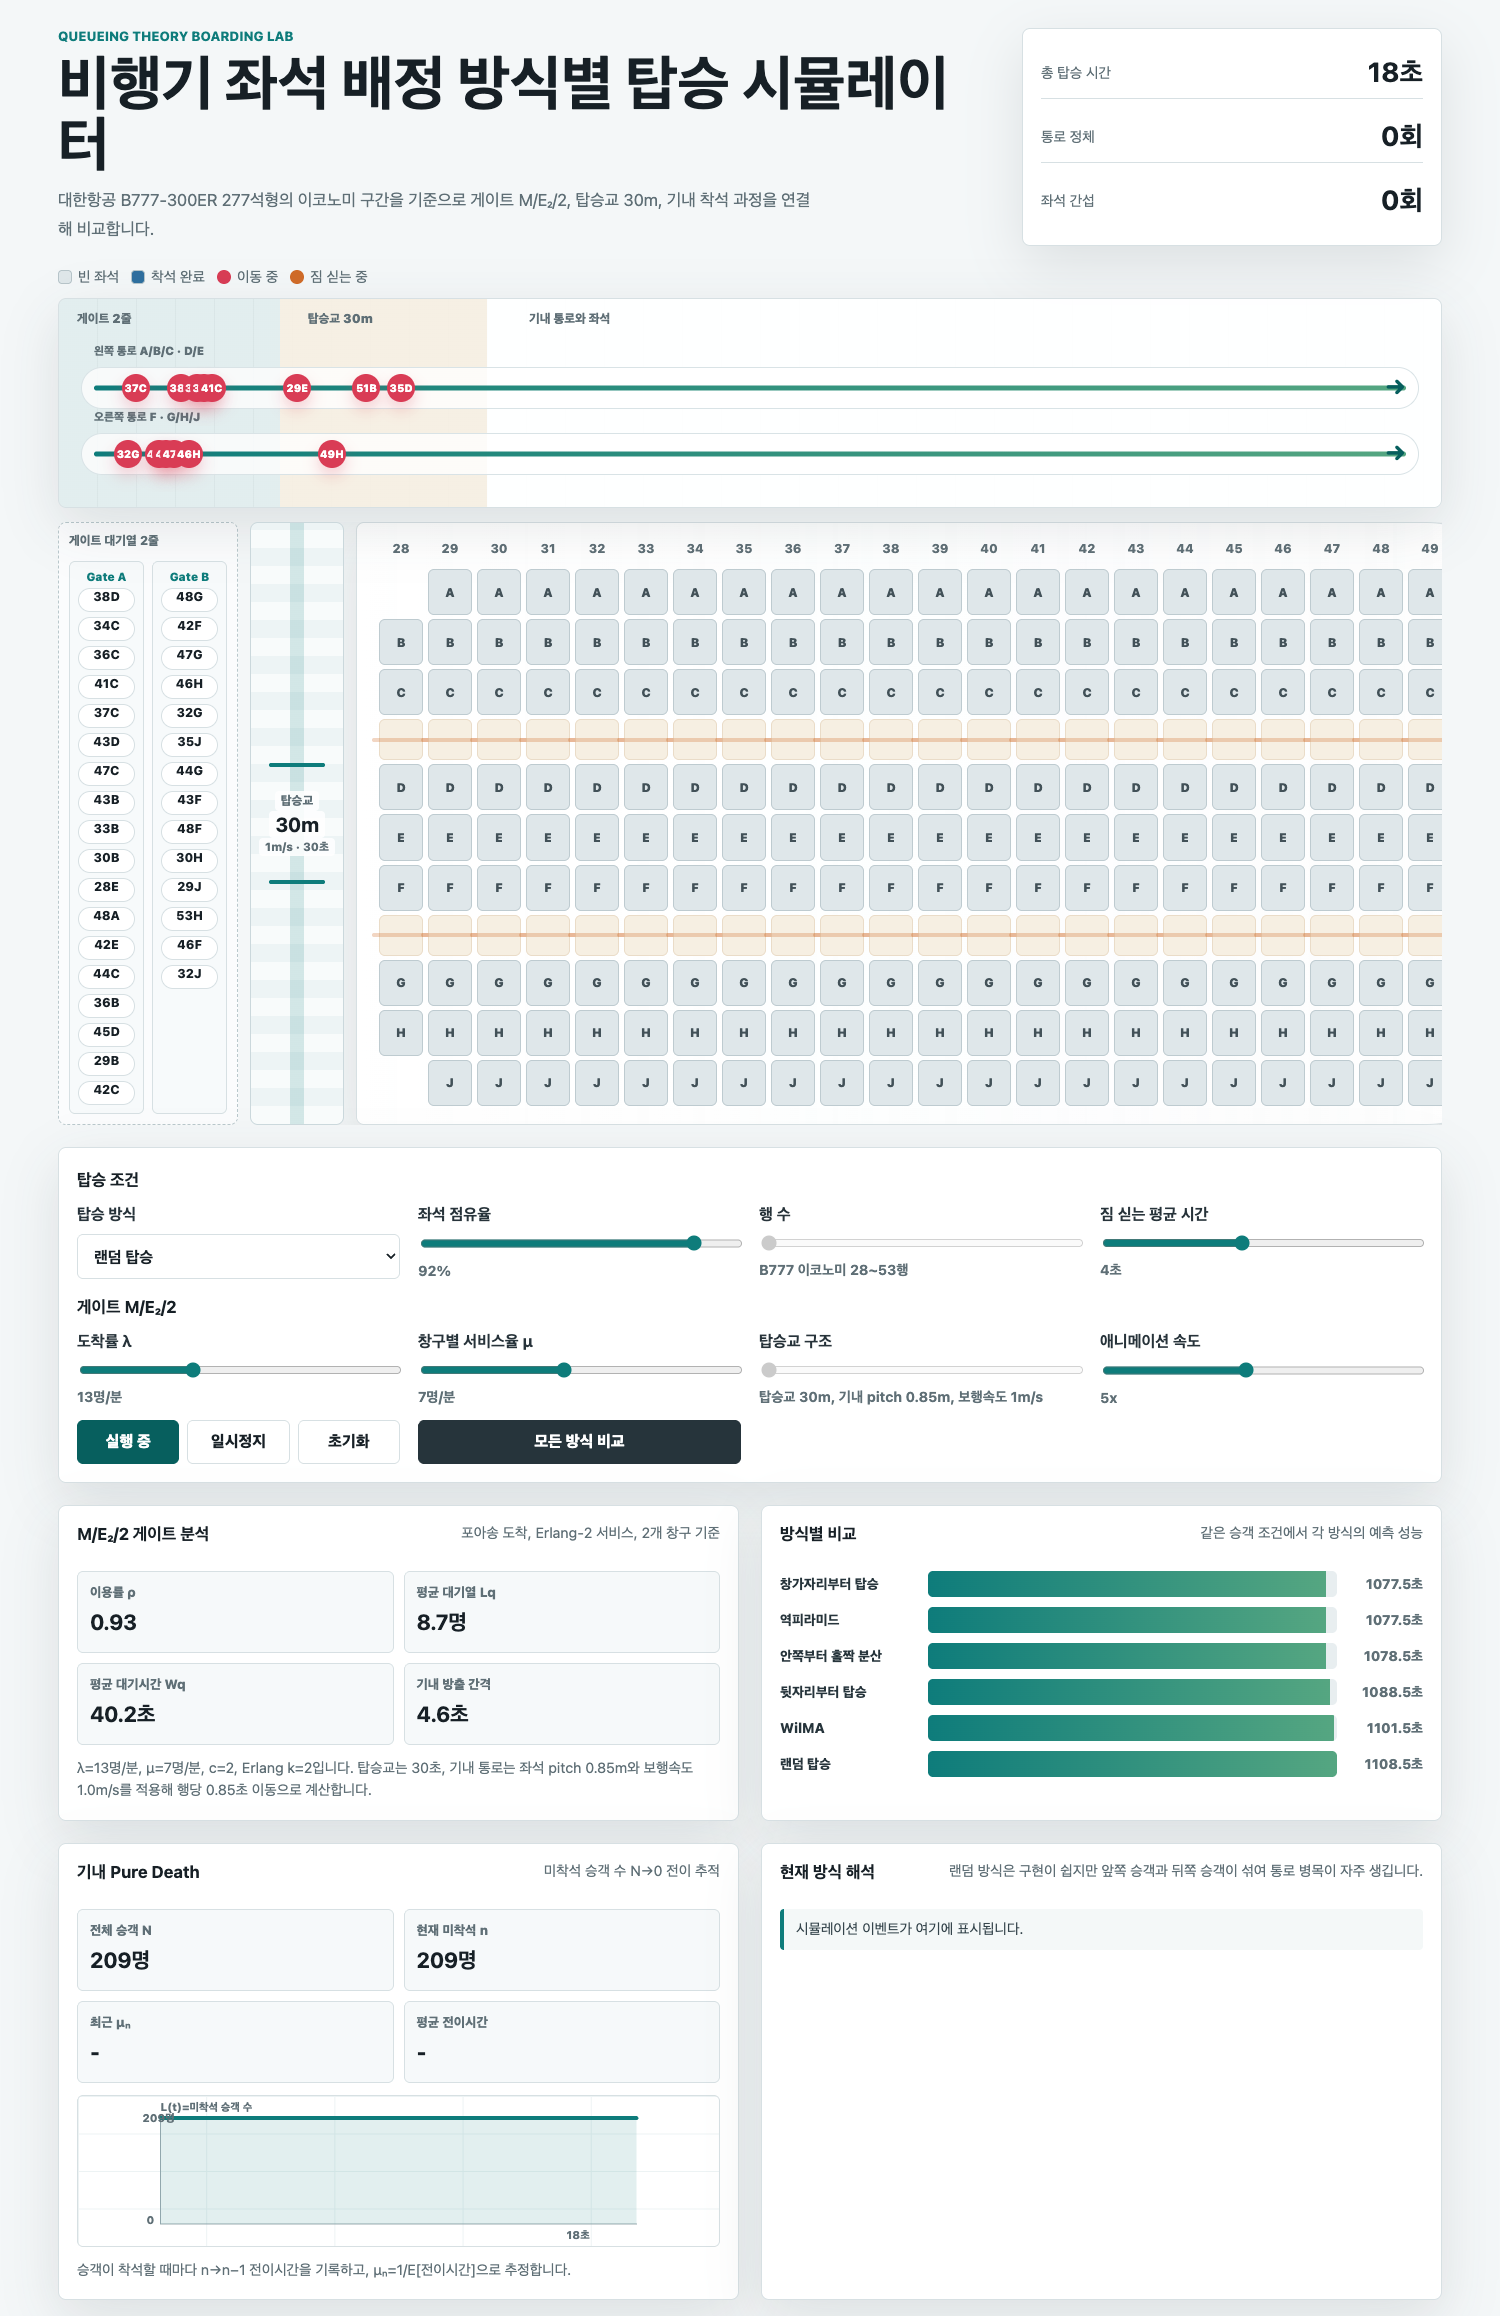
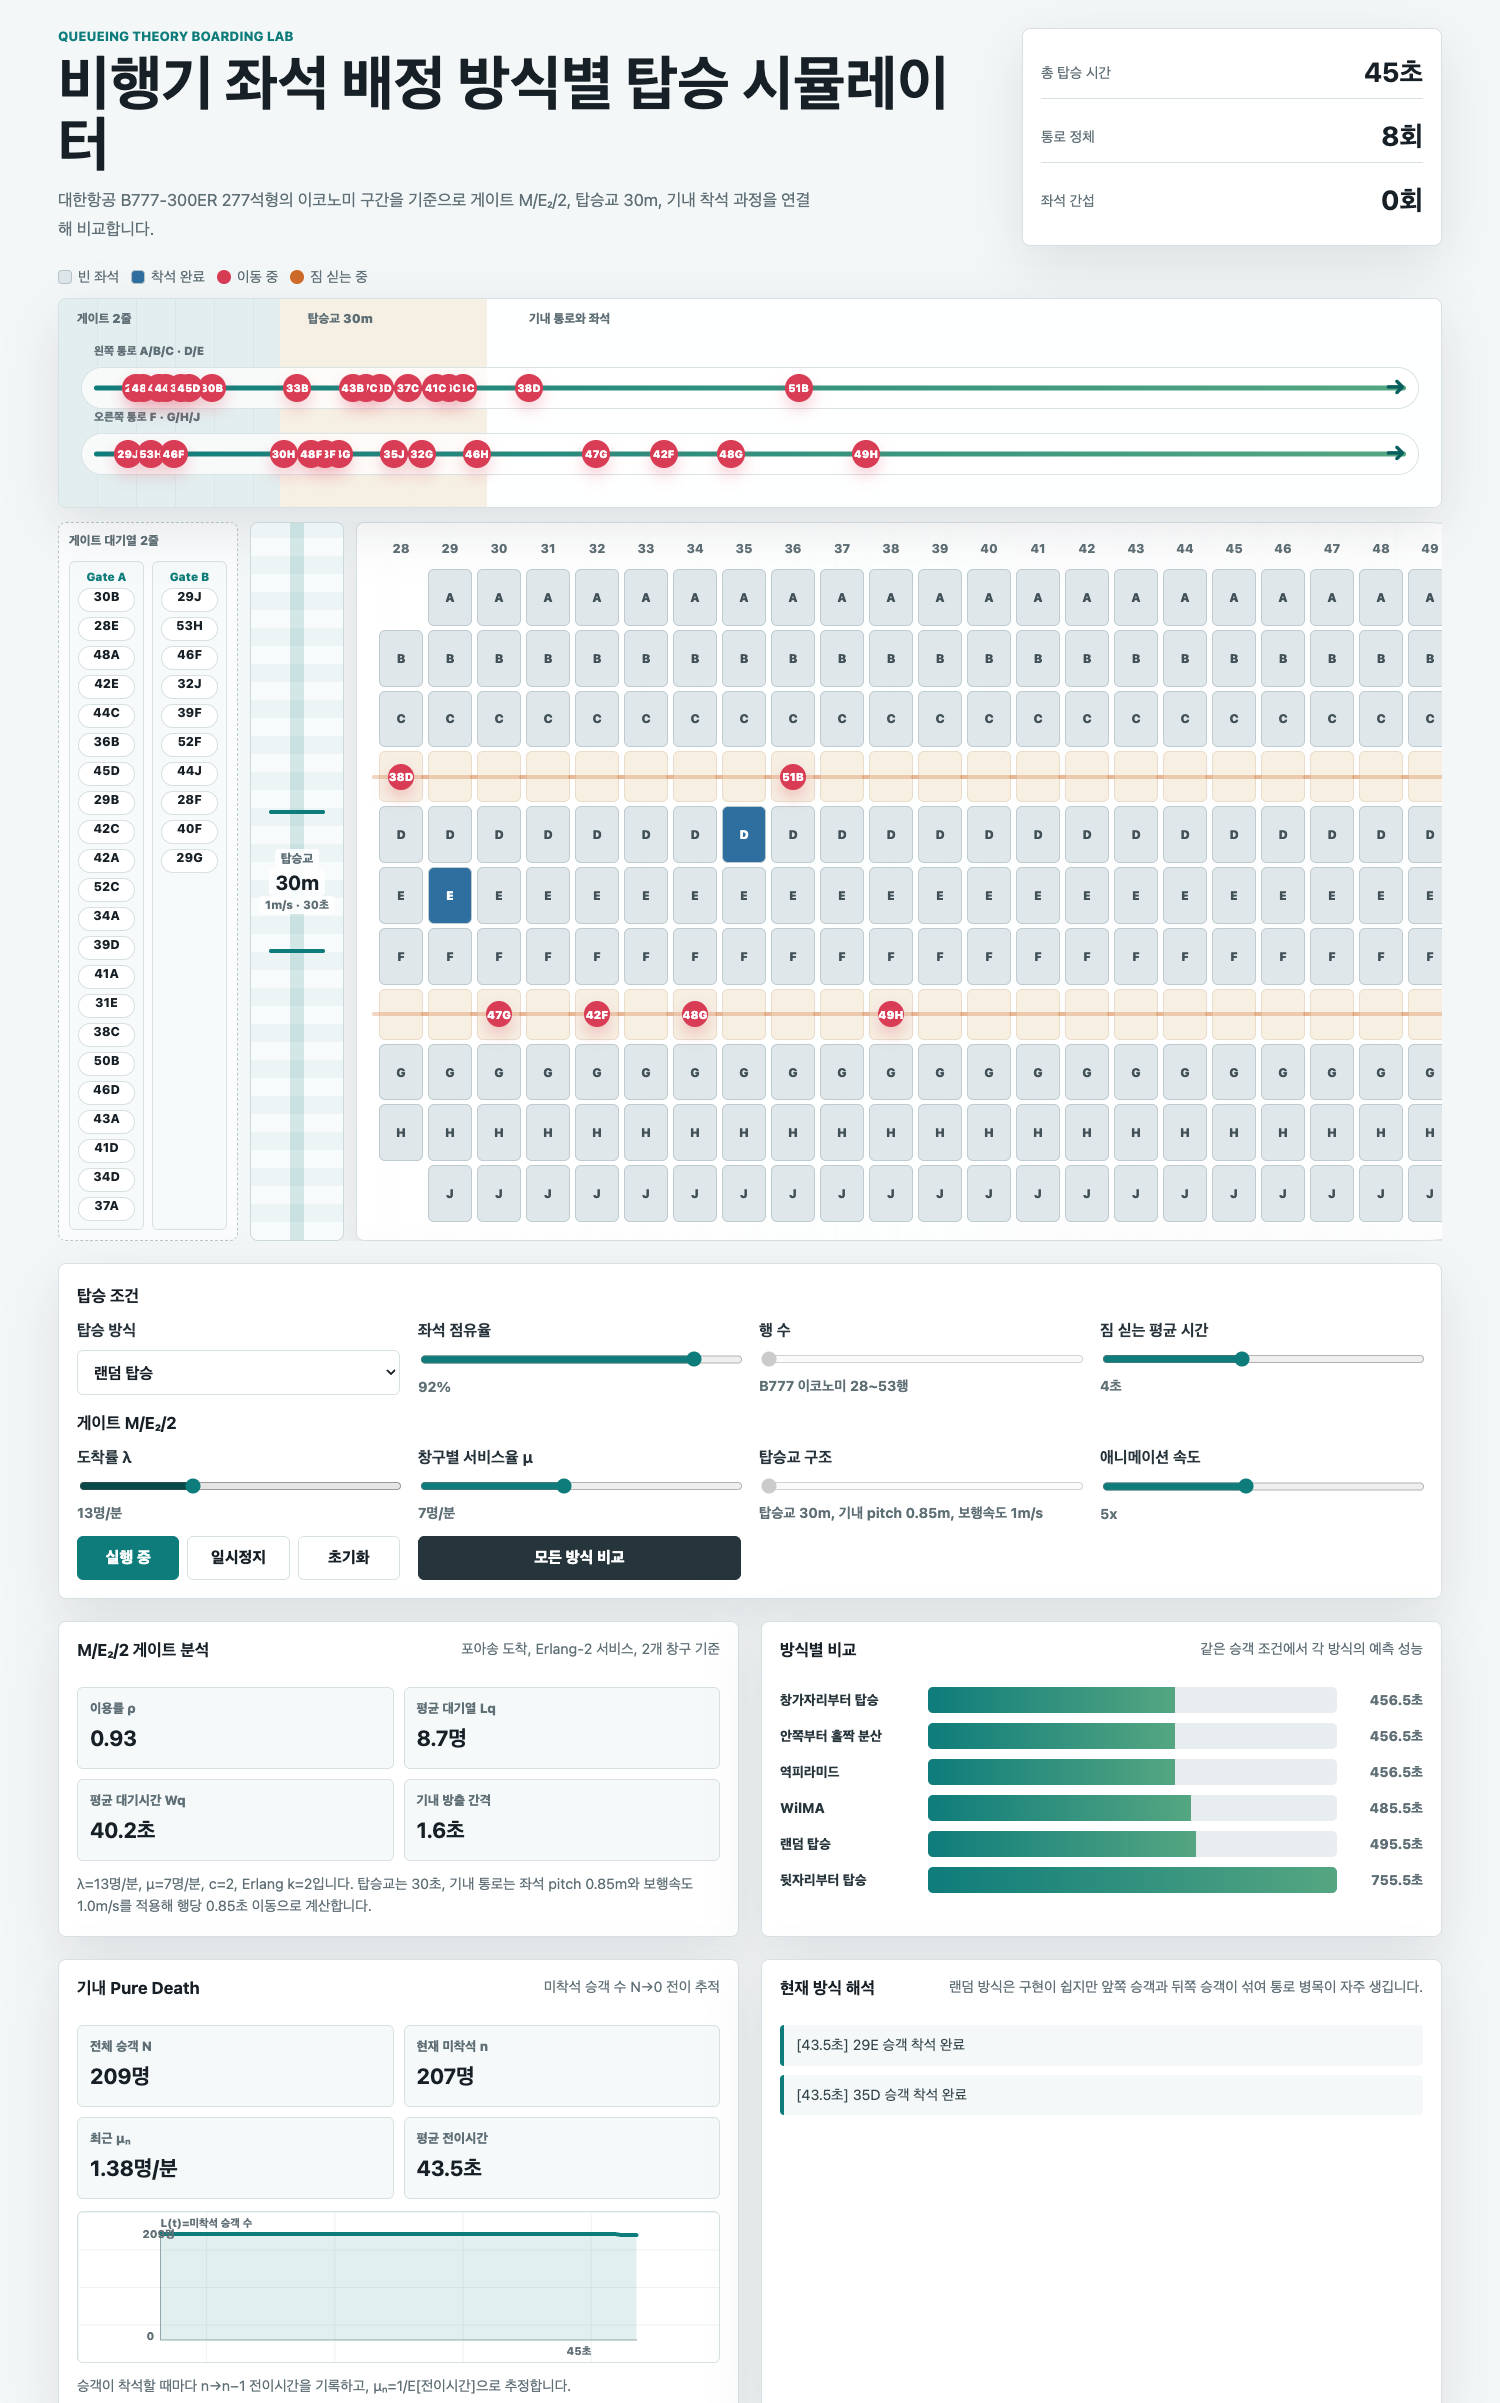
Show realistic cabin entry congestion

diff --git a/app.js b/app.js
@@ -5,6 +5,7 @@ const walkingSpeedMps = 1.0;
 const economyPitchMeters = 0.85;
 const cabinRowTravelSeconds = economyPitchMeters / walkingSpeedMps;
 const simStepSeconds = 0.5;
+const boardingReleaseScale = 0.35;
 const erlangShape = 2;
 const gateServersFixed = 2;
 const seatLetters = ["A", "B", "C", "D", "E", "F", "G", "H", "J"];
@@ -159,7 +160,7 @@ function factorial(value) {
 function mmcMetrics(lambda = state.arrivalRate, mu = state.serviceRate, servers = gateServersFixed) {
   const rho = lambda / (servers * mu);
   const capacityRate = Math.min(lambda, servers * mu);
-  const releaseInterval = 60 / Math.max(capacityRate, 0.1);
+  const releaseInterval = (60 / Math.max(capacityRate, 0.1)) * boardingReleaseScale;
 
   if (rho >= 1) {
     return {
@@ -390,6 +391,7 @@ function stepSimulation(sim) {
       entryAisle[0] = passenger;
       sim.bridgePassengers.splice(i, 1);
     } else {
+      passenger.status = "bridge_wait";
       sim.blockedTicks += 1;
     }
   }
@@ -463,9 +465,9 @@ function flowPosition(passenger) {
   if (passenger.status === "queue") {
     return 5 + (passenger.index % 12) * 0.55;
   }
-  if (passenger.status === "bridge") {
+  if (passenger.status === "bridge" || passenger.status === "bridge_wait") {
     const progress = Math.max(0, Math.min(1, (state.sim.time - passenger.bridgeStart) / jetBridgeSeconds));
-    return 16 + progress * 15;
+    return passenger.status === "bridge_wait" ? 31 : 16 + progress * 15;
   }
   if (passenger.position < 0) return 5;
   return 34 + (passenger.position / Math.max(state.rows - 1, 1)) * 61;